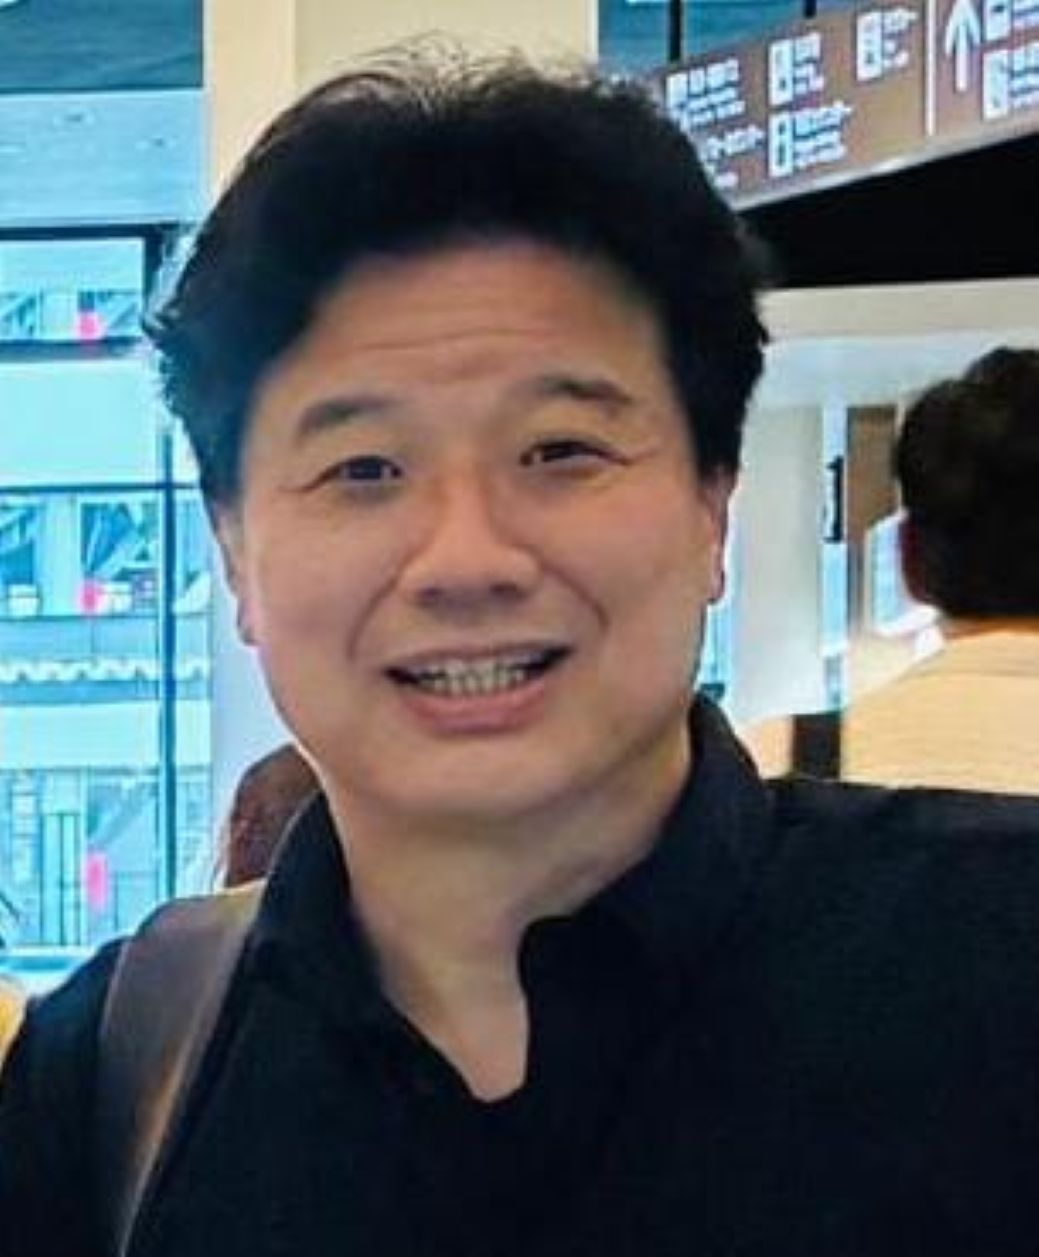
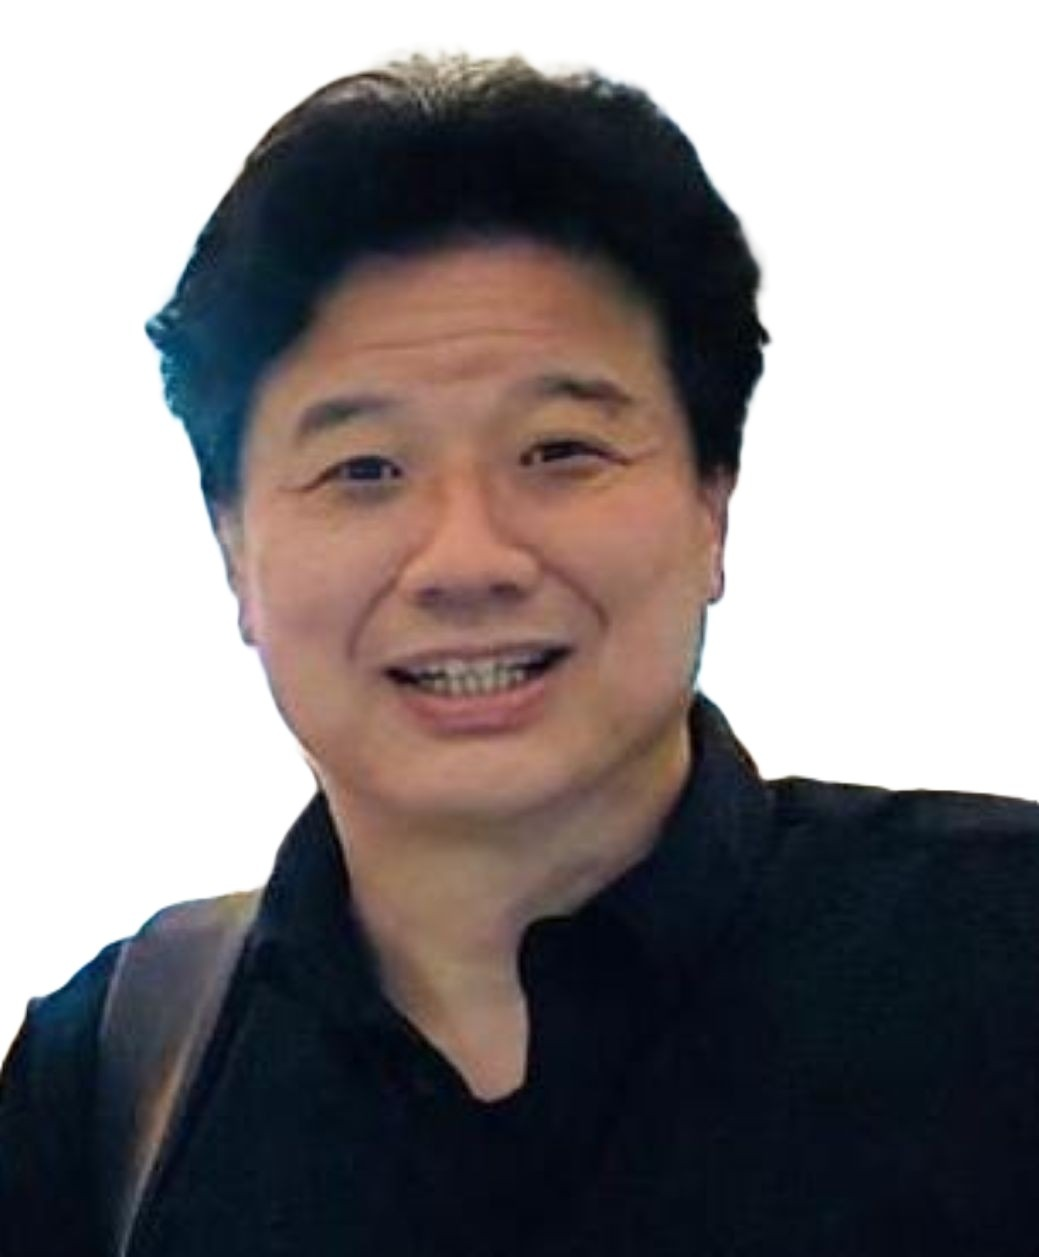
style: image size

diff --git a/app/navigation/about/_components/shared/team-section.tsx b/app/navigation/about/_components/shared/team-section.tsx
@@ -76,6 +76,13 @@ const OurTeam = () => {
       {/* Team Section*/}
       <div className="py-16">
         <div className="max-w-7xl mx-auto px-4 sm:px-6 lg:px-8">
+          {/* Team Title */}
+          <div className="text-center mb-12">
+            <h2 className="text-3xl md:text-4xl font-bold text-gray-800 mb-4">
+              Our Successful Team
+            </h2>
+          </div>
+
           {/* Manual Scroll for All Devices */}
           <div>
             <div
@@ -88,11 +95,11 @@ const OurTeam = () => {
                   className="bg-white rounded-xl shadow-lg hover:shadow-xl transition-shadow duration-300 overflow-hidden group flex-shrink-0 w-80 lg:w-96"
                 >
                   {/* Image Section */}
-                  <div className="relative overflow-hidden">
+                  <div className="relative overflow-hidden h-64 lg:h-80 bg-gray-100">
                     <img
                       src={member.image}
                       alt={member.name}
-                      className="w-full h-auto object-contain group-hover:scale-105 transition-transform duration-300"
+                      className="w-full h-full object-cover object-center group-hover:scale-105 transition-transform duration-300"
                     />
                   </div>
                   {/* Content Section */}
